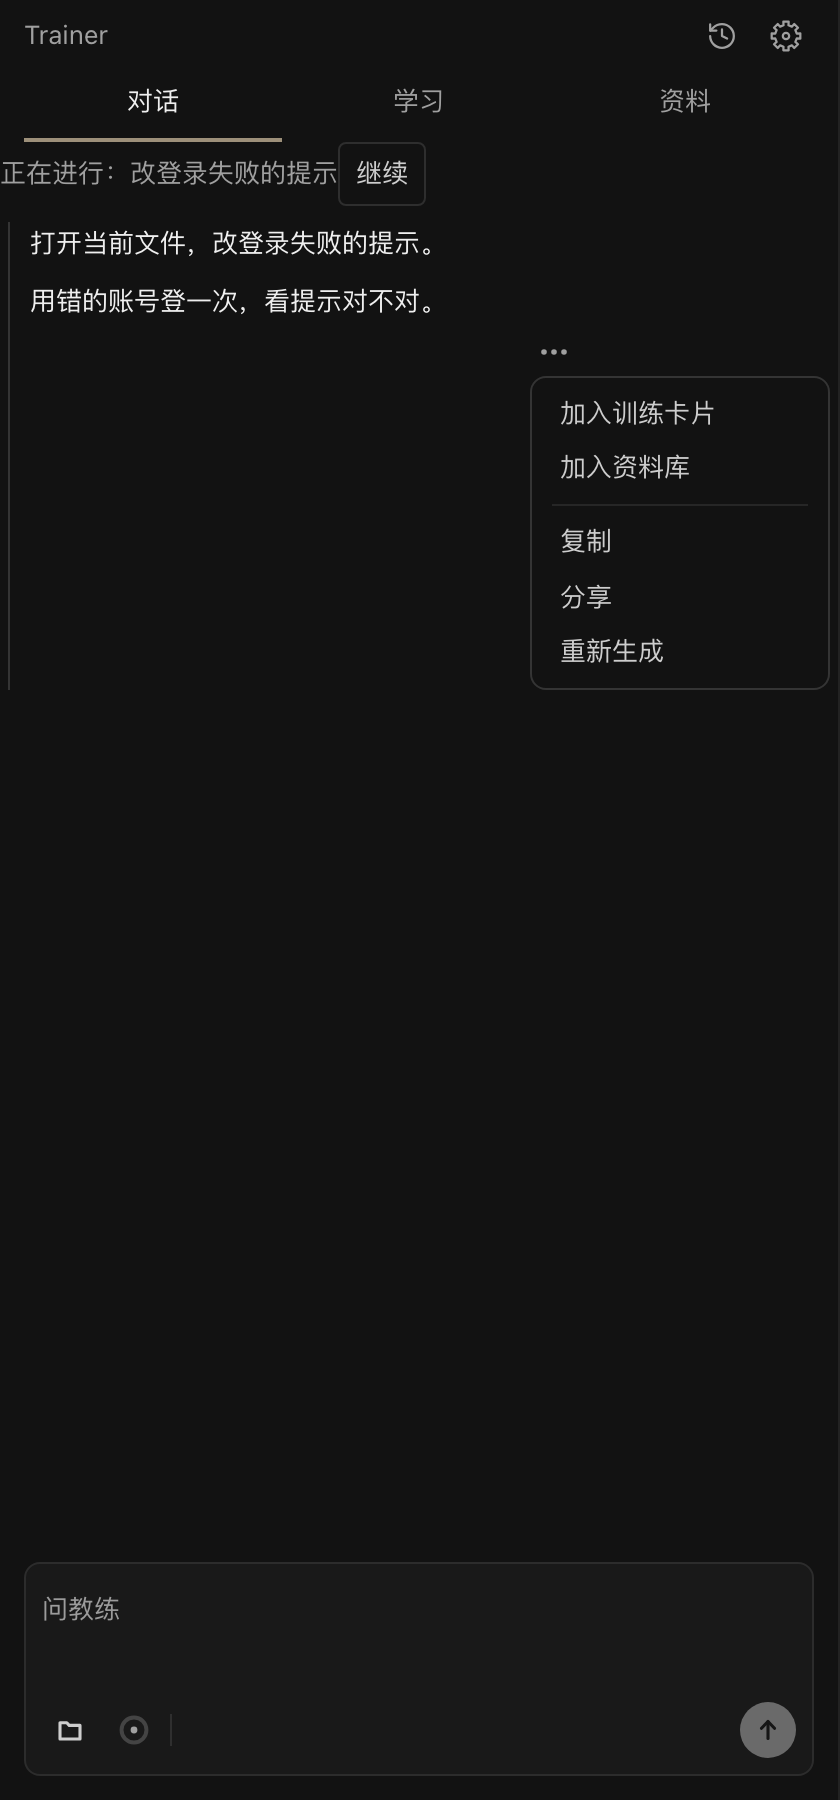
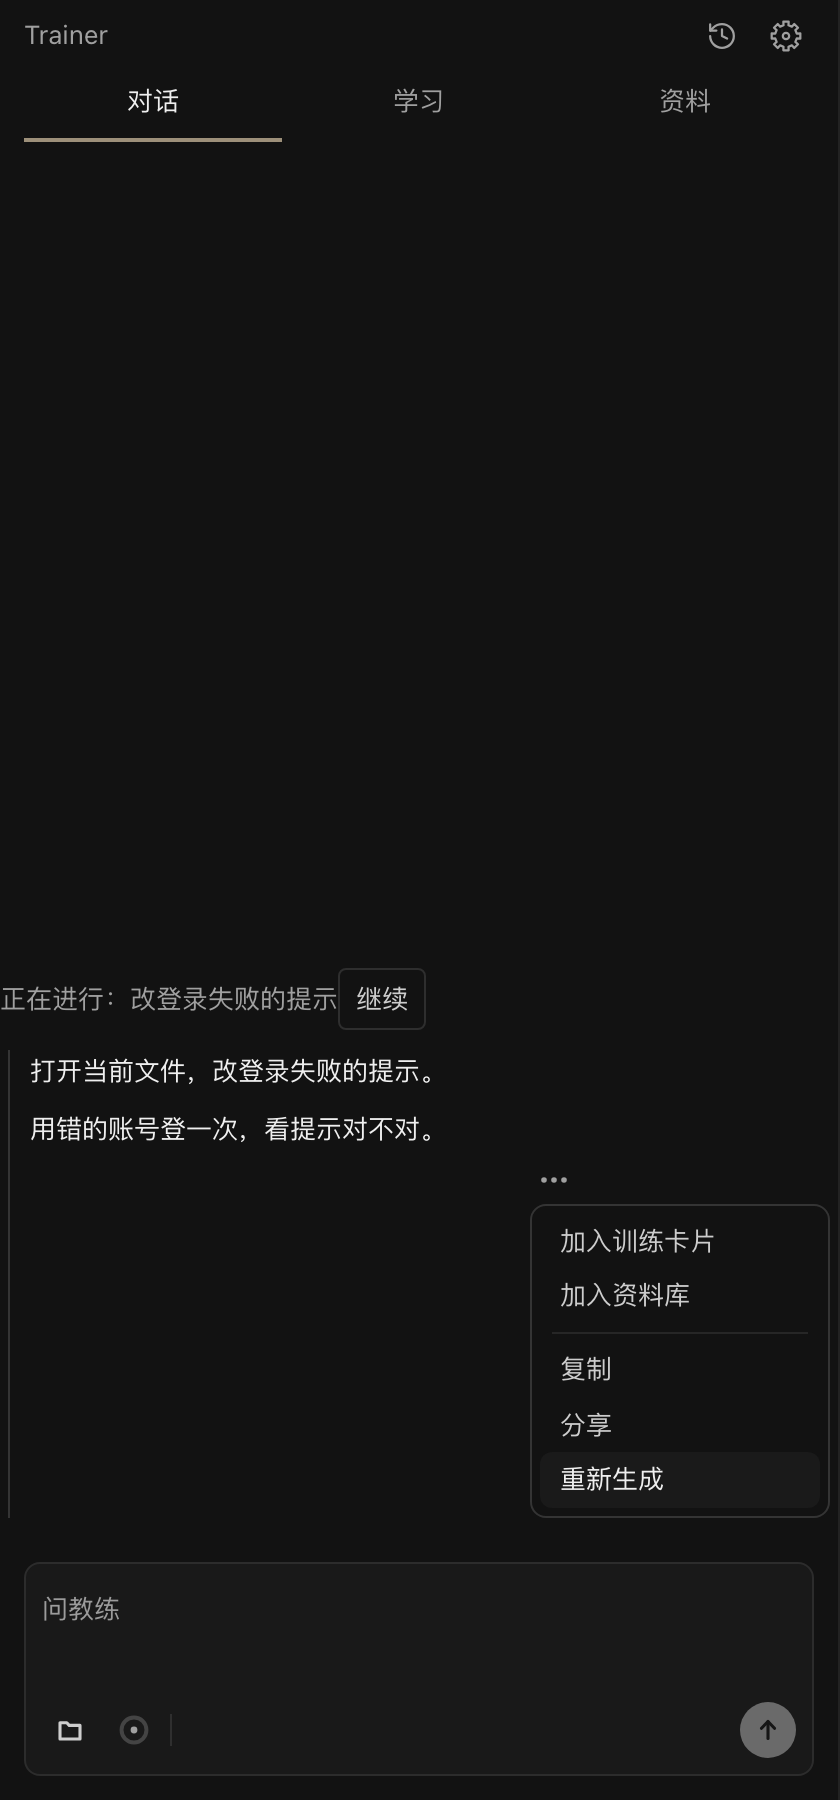
refine: 最终收口 — 金标准截图与最终代码状态

diff --git a/extension/webview/src/styles/sections/coach-conversation-view.css b/extension/webview/src/styles/sections/coach-conversation-view.css
@@ -278,11 +278,19 @@
    the whole banner+thread group to the composer, so a short thread no longer
    strands ~70% dead pane between the last message and the input. The banner
    travels WITH the messages, so the banner→first-message hole that killed the
-   old spacer cannot reopen. Until that DOM move lands this rule matches
-   nothing; once it does, an overflowing thread makes the auto margin resolve
-   to 0 and normal top-down scrolling is untouched. */
+   old spacer cannot reopen. Once the thread overflows the pane the auto margin
+   resolves to 0 and normal top-down scrolling is untouched. */
 .coach-conversation-view__list > [data-coach-training-resume] {
   margin-top: auto;
+}
+
+/* The $ skill palette is an overlay above the composer: with the thread
+   anchored, the palette would slide over the banner and the very messages the
+   user is narrowing (and trip the palette-must-not-cover-the-thread gate).
+   While it is open, drop the anchor — the thread returns to the top and the
+   palette covers only the empty tail, exactly as before the anchor existed. */
+.trainer-shell:has(.template-command-palette) .coach-conversation-view__list > [data-coach-training-resume] {
+  margin-top: 0;
 }
 
 @media (max-width: 360px) {

diff --git a/extension/tests/onboardingWizardSource.test.js b/extension/tests/onboardingWizardSource.test.js
@@ -56,9 +56,11 @@ test('App derives onboarding state from workbench data and wires every wizard ac
     /const onboarding = deriveOnboardingSteps\(\{\s*workspaceAdmissionStatus: trainerWorkspaceAdmission\?\.status,\s*workspaceTrustState: effectiveWorkspaceTrustState,/,
   );
   // Wizard covers true cold starts only; saved-connection recovery stays untouched.
+  // A configured connection whose root went missing is recovery, not onboarding:
+  // the governed WorkspaceAdmissionPanel owns that ask (e2e C31/C32).
   assert.match(
     app,
-    /const onboardingActive =\s*!onboarding\.complete &&\s*\(!data\.providerConfig\.configured \|\| trainerWorkspaceAdmission\?\.status === "root-missing"\);/,
+    /const onboardingActive =\s*!onboarding\.complete &&\s*!data\.providerConfig\.configured;/,
   );
   assert.match(app, /commandId: trainerCommands\.startProviderTrial/);
   assert.match(app, /onChooseWorkspaceRoot=\{\(\) =>\s*runWorkspaceAdmissionCommand\(trainerCommands\.chooseTrainerWorkspaceRoot\)\s*\}/);

diff --git a/extension/webview/src/app/App.tsx b/extension/webview/src/app/App.tsx
@@ -11619,9 +11619,7 @@ export function App() {
   });
   // Only true cold starts get the wizard: a saved connection that merely lost
   // its key keeps the existing scenario-aware recovery surface.
-  const onboardingActive =
-    !onboarding.complete &&
-    (!data.providerConfig.configured || trainerWorkspaceAdmission?.status === "root-missing");
+  const onboardingActive = !onboarding.complete && !data.providerConfig.configured;
   // The onboarding paste only fills address + key, but a saveable provider
   // needs a model id. The browser preview can list models for an unsaved
   // draft directly; the VS Code host keeps the field free-form so the learner

diff --git a/extension/bundled/server/app/api/routes/learning.py b/extension/bundled/server/app/api/routes/learning.py
@@ -179,6 +179,9 @@ def build_learning_router(runtime: TrainerRuntime, deps: RouterDeps) -> APIRoute
             )
         tests_output = str(payload.get("tests_output") or payload.get("testsOutput") or "").strip()
         passed = bool(payload.get("passed"))
+        # Host attestations retry on transport loss; the stable per-run key lets
+        # the training-reliability ledger replay instead of double-recording.
+        idempotency_key = str(payload.get("idempotency_key") or payload.get("idempotencyKey") or "").strip()
         resolved_workspace_id = current_workspace_id(session_id=payload.get("session_id"), workspace_id=payload.get("workspace_id"))
         updated = runtime.memory_service.record_training_practice_evaluation_result(
             workspace_id=resolved_workspace_id,
@@ -190,6 +193,7 @@ def build_learning_router(runtime: TrainerRuntime, deps: RouterDeps) -> APIRoute
             focus_area=str(payload.get("focus_area") or payload.get("focusArea") or ""),
             evidence_source=evidence_source,
             verified_by_evaluator=passed,
+            idempotency_key=idempotency_key,
         )
         return {"ok": True, "workspace": updated}
     return router

diff --git a/extension/bundled/server/app/api/routers.py b/extension/bundled/server/app/api/routers.py
@@ -11844,7 +11844,7 @@ def build_router(runtime: TrainerRuntime) -> APIRouter:
         *,
         session_id: str | None,
         workspace_id: str,
-    ) -> tuple[str, object] | tuple[None, None]:
+    ) -> tuple[str, SessionState] | tuple[None, None]:
         if session_id:
             state = runtime.get_session(session_id)
             if state is not None and state.workspace_id == workspace_id:
@@ -16895,7 +16895,7 @@ def build_router(runtime: TrainerRuntime) -> APIRouter:
                 and independent_selection.get("workspace_id") == workspace_id
                 and bool(independent_selection.get("selected_at"))
                 and bool(independent_selection.get("card_id"))
-                and independent_selection.get("card_id") == runtime.memory_service.live_selected_training_card_id(workspace_id)
+                and independent_selection.get("card_id") == runtime.memory_service.live_selected_training_card_id(workspace_id or "")
             )
             if not independent_card_is_live and leftover_training_handoff_chrome_is_not_live(
                 runtime=leftover_runtime,

diff --git a/server/app/api/routers.py b/server/app/api/routers.py
@@ -11844,7 +11844,7 @@ def build_router(runtime: TrainerRuntime) -> APIRouter:
         *,
         session_id: str | None,
         workspace_id: str,
-    ) -> tuple[str, object] | tuple[None, None]:
+    ) -> tuple[str, SessionState] | tuple[None, None]:
         if session_id:
             state = runtime.get_session(session_id)
             if state is not None and state.workspace_id == workspace_id:
@@ -16895,7 +16895,7 @@ def build_router(runtime: TrainerRuntime) -> APIRouter:
                 and independent_selection.get("workspace_id") == workspace_id
                 and bool(independent_selection.get("selected_at"))
                 and bool(independent_selection.get("card_id"))
-                and independent_selection.get("card_id") == runtime.memory_service.live_selected_training_card_id(workspace_id)
+                and independent_selection.get("card_id") == runtime.memory_service.live_selected_training_card_id(workspace_id or "")
             )
             if not independent_card_is_live and leftover_training_handoff_chrome_is_not_live(
                 runtime=leftover_runtime,

diff --git a/extension/bundled/server/app/pedagogy/stage_material_state.py b/extension/bundled/server/app/pedagogy/stage_material_state.py
@@ -7,12 +7,15 @@ from ..core.models import LearningPlan, StageMaterialItem, TeachingKnowledgeAsse
 
 
 def stage_material_payload(asset: TeachingKnowledgeAsset) -> StageMaterialItem:
+    # Construct via the wire aliases (camelCase); the model's populate_by_name
+    # keeps the runtime payload snake_case, but Pyright's synthesized __init__
+    # exposes the alias names only.
     return StageMaterialItem(
-        id=asset.id, plan_stage_id=asset.plan_stage_id, kind=asset.kind,
+        id=asset.id, planStageId=asset.plan_stage_id, kind=asset.kind,
         title=asset.title, summary=asset.summary,
         content=asset.concept_card or asset.example or asset.exercise_seed or asset.summary,
-        focus_area=asset.focus_area, created_at=asset.created_at or "",
-        generation_source="template" if "stage-material-fallback" in asset.tags else "model",
+        focusArea=asset.focus_area, createdAt=asset.created_at or "",
+        generationSource="template" if "stage-material-fallback" in asset.tags else "model",
     )
 
 

diff --git a/server/app/pedagogy/stage_material_state.py b/server/app/pedagogy/stage_material_state.py
@@ -7,12 +7,15 @@ from ..core.models import LearningPlan, StageMaterialItem, TeachingKnowledgeAsse
 
 
 def stage_material_payload(asset: TeachingKnowledgeAsset) -> StageMaterialItem:
+    # Construct via the wire aliases (camelCase); the model's populate_by_name
+    # keeps the runtime payload snake_case, but Pyright's synthesized __init__
+    # exposes the alias names only.
     return StageMaterialItem(
-        id=asset.id, plan_stage_id=asset.plan_stage_id, kind=asset.kind,
+        id=asset.id, planStageId=asset.plan_stage_id, kind=asset.kind,
         title=asset.title, summary=asset.summary,
         content=asset.concept_card or asset.example or asset.exercise_seed or asset.summary,
-        focus_area=asset.focus_area, created_at=asset.created_at or "",
-        generation_source="template" if "stage-material-fallback" in asset.tags else "model",
+        focusArea=asset.focus_area, createdAt=asset.created_at or "",
+        generationSource="template" if "stage-material-fallback" in asset.tags else "model",
     )
 
 

diff --git a/extension/bundled/server/app/llm/stream_agent_metadata.py b/extension/bundled/server/app/llm/stream_agent_metadata.py
@@ -22,8 +22,12 @@ def merge_stream_agent_metadata(
         for event in source.get("tool_events") or []:
             if not isinstance(event, dict):
                 continue
-            identity = tuple(str(event.get(key) or "")
-                             for key in ("type", "id", "name", "step"))
+            identity = (
+                str(event.get("type") or ""),
+                str(event.get("id") or ""),
+                str(event.get("name") or ""),
+                str(event.get("step") or ""),
+            )
             if identity in seen:
                 continue
             seen.add(identity)

diff --git a/server/app/llm/stream_agent_metadata.py b/server/app/llm/stream_agent_metadata.py
@@ -22,8 +22,12 @@ def merge_stream_agent_metadata(
         for event in source.get("tool_events") or []:
             if not isinstance(event, dict):
                 continue
-            identity = tuple(str(event.get(key) or "")
-                             for key in ("type", "id", "name", "step"))
+            identity = (
+                str(event.get("type") or ""),
+                str(event.get("id") or ""),
+                str(event.get("name") or ""),
+                str(event.get("step") or ""),
+            )
             if identity in seen:
                 continue
             seen.add(identity)
